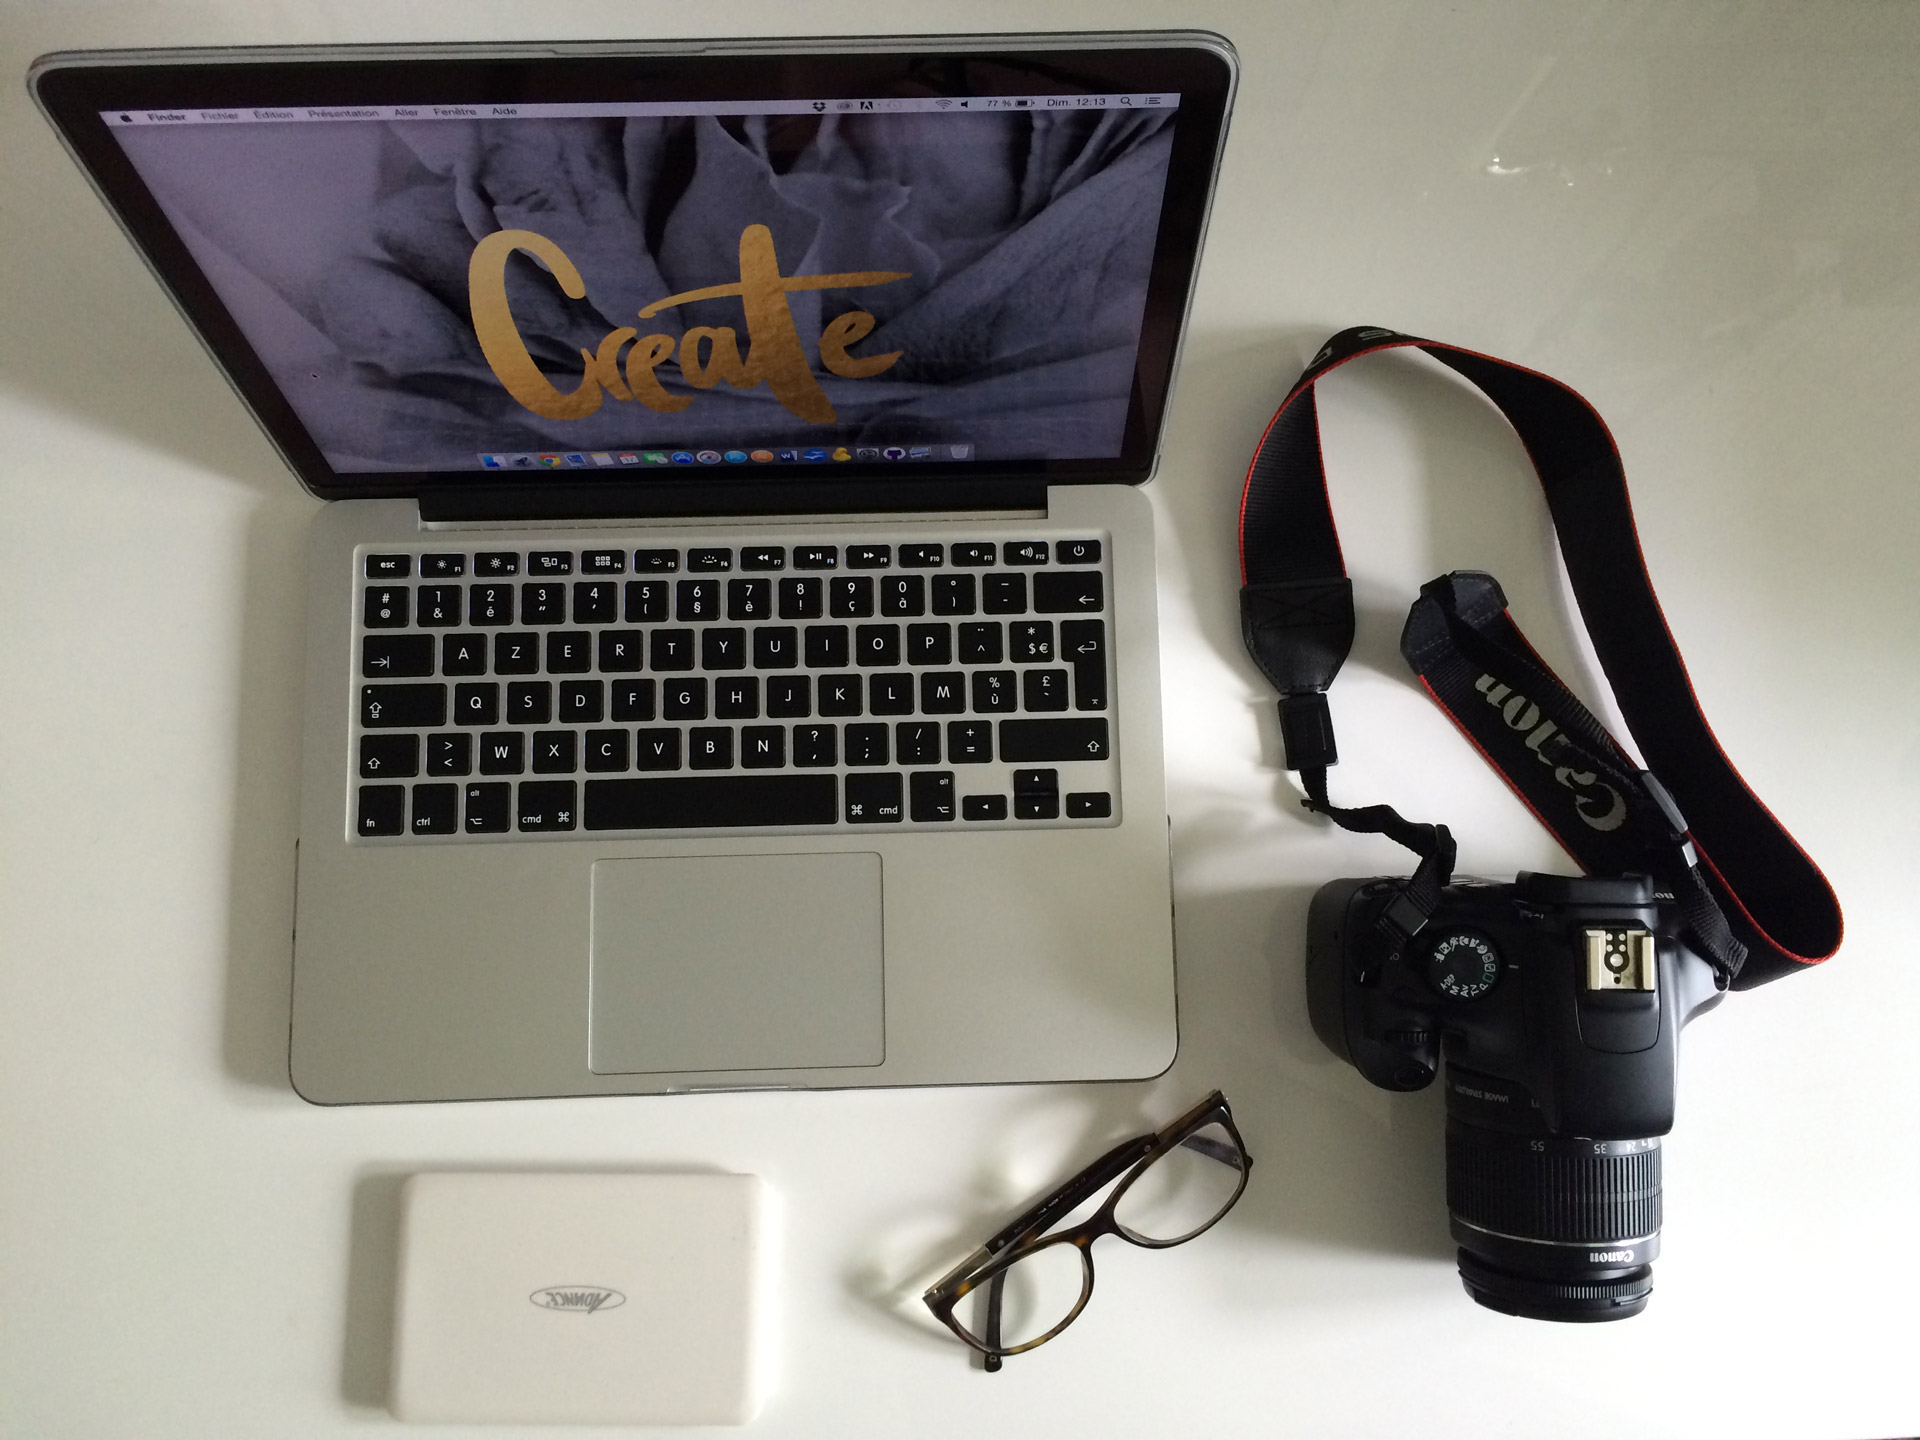
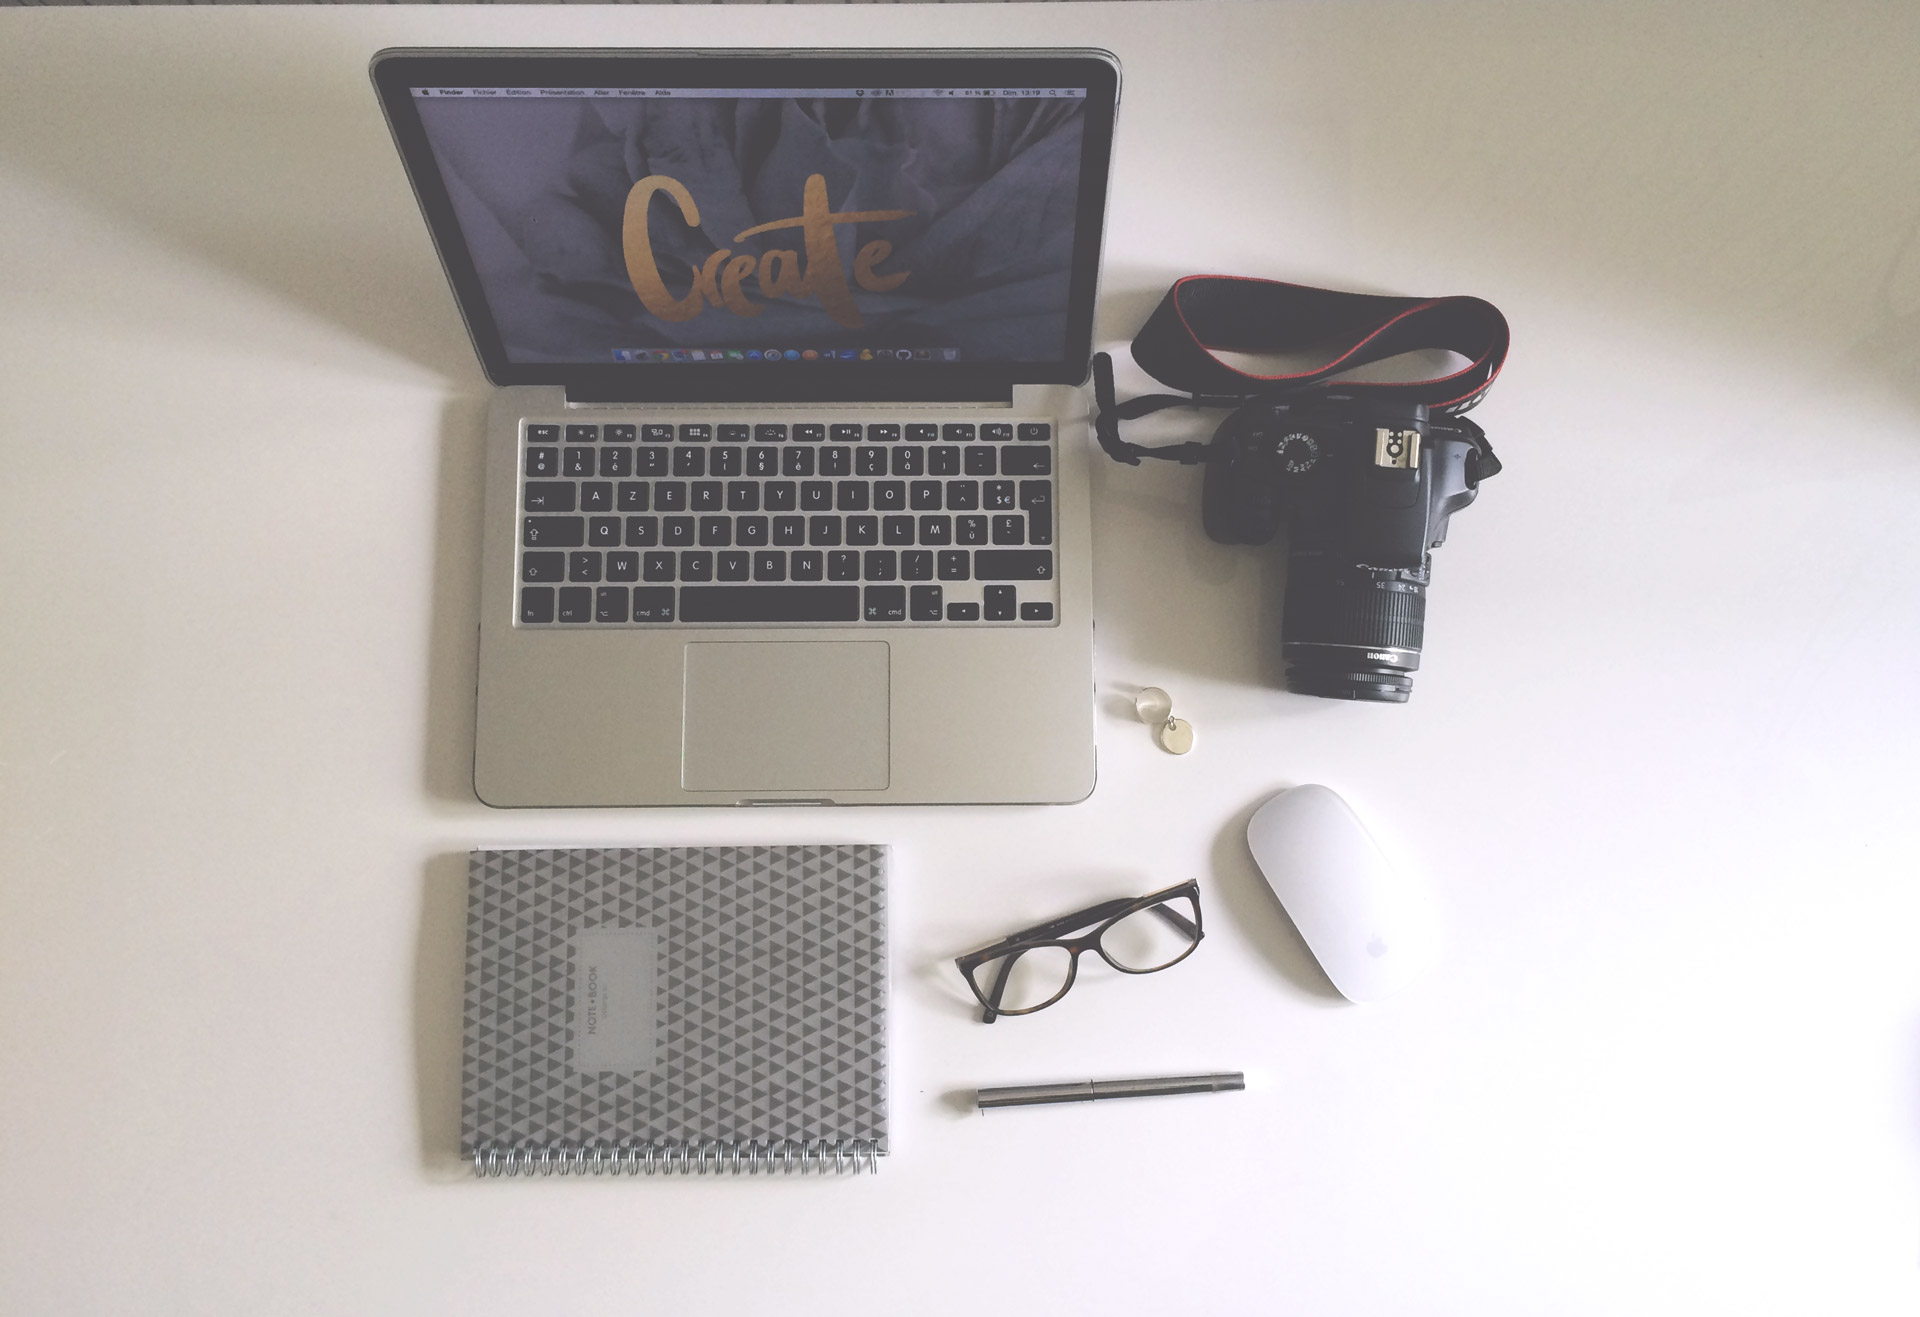
Slide picture

diff --git a/index.html b/index.html
@@ -70,7 +70,10 @@
     <section class="white">
         <div class="wrap-content">
             <h1>À propos de moi</h1>
-            <p>Étudiant de 20 ans dans le domaine du webdesign et de la conduite de projet web, je suis originaire de Toulouse. J'ai obtenu mon DUT Métiers du Multimédia et de l'Internet l'an dernier et suis actuellement étudiant au sein de l'école <a target="_blank" href="http://www.digital-campus.fr/">Digital Campus</a>.</p>
+            <p>Je suis actuellement étudiante en 2ème année du DUT MMI (anciennement SRC). C’est dans le cadre de cette formation que j’effectue en ce moment le stage de fin d’études de 3 mois dans l'entreprise la dépêche interactive, à Toulouse. Je suis passionnée par la publicité, la photographie, l’infographie, la communication, les nouvelles technologies, je donc souhaite poursuivre mes études dans le domaine du web.
+Je suis aussi à la rechercher d'un contrat en apprentissage dans le domaine du multimédia, communication et/ou gestion de projets dans le cadre de la formation « Bachelor 3 année – Chef de projet multimédia » de l’école <a target="_blank" href="http://www.digital-campus.fr/">Digital Campus</a> à Labège, que je souhaiterais intégrer pour le mois de septembre prochain.
+Je tiens donc à vous souhaiter une bonne visite sur mon portfolio, n’hésitez pas à me contacter pour tout renseignement ! 
+Étudiant de 20 ans dans le domaine du webdesign et de la conduite de projet web, je suis originaire de Toulouse. J'ai obtenu mon DUT Métiers du Multimédia et de l'Internet l'an dernier et suis actuellement étudiant au sein de l'école .</p>
             <p>Je suis disponible pour tout travail, que ce soit du webdesign, du print ou du développement. N'hésitez pas à me <a class="page-scroll" href="#contact">contacter</a> !</p>
         </div>
     </section>

diff --git a/css/style.css b/css/style.css
@@ -443,7 +443,7 @@ section[id*="contact"] + section li{
 }
 
 .module.parallax-0 {
-	background-image: url("../img/header.jpg");
+	background-image: url("../img/desk2.jpg");
     background-position: 0% 0%;
 	width: 100%;
 }
